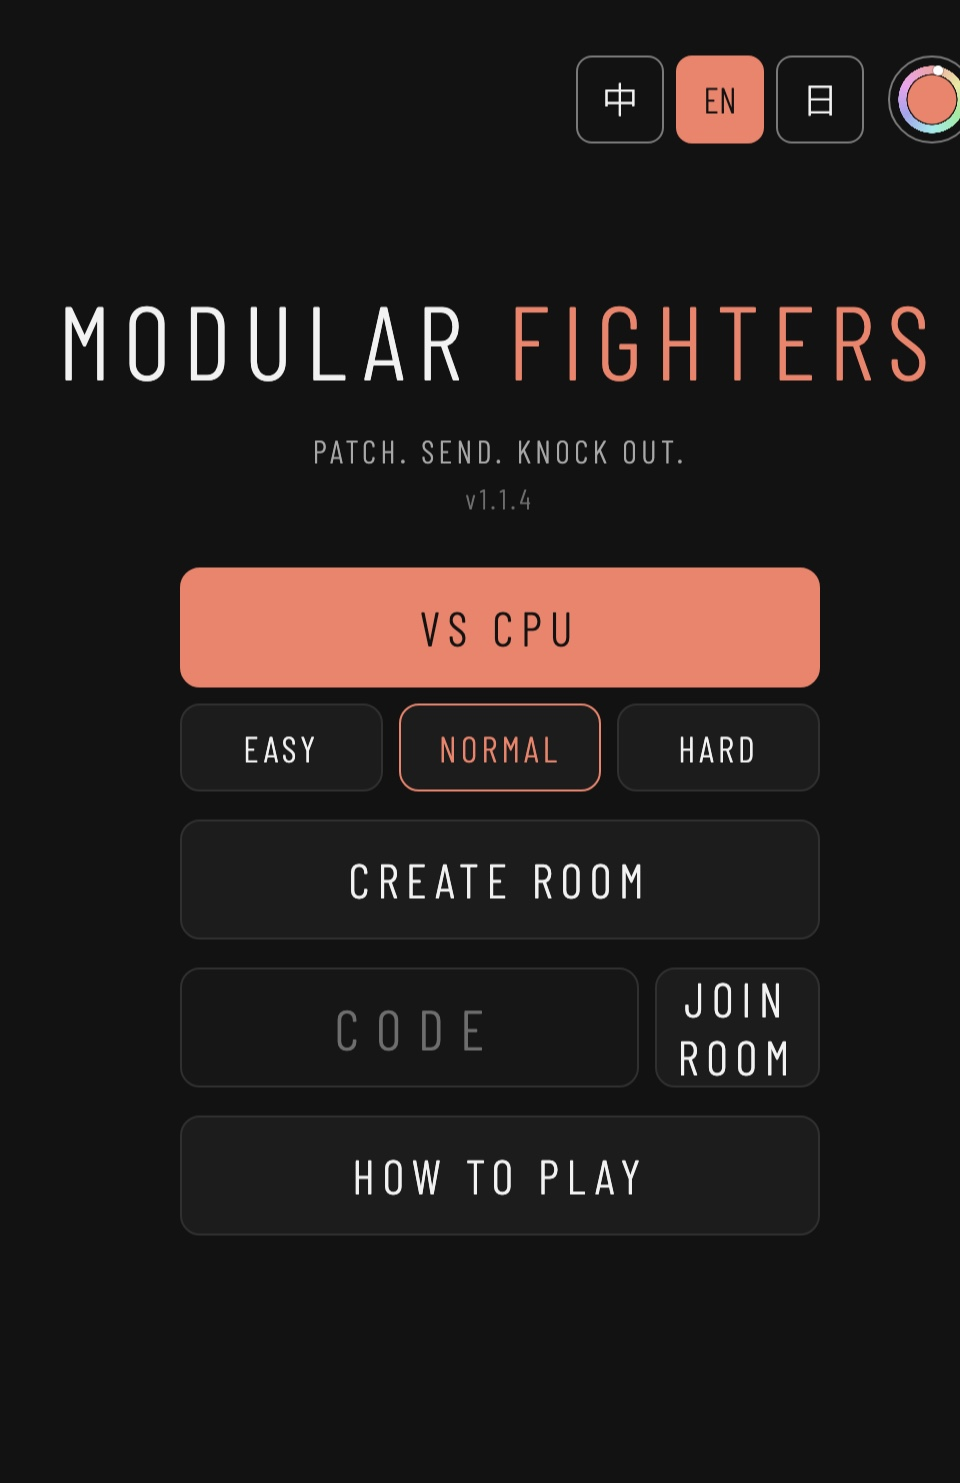
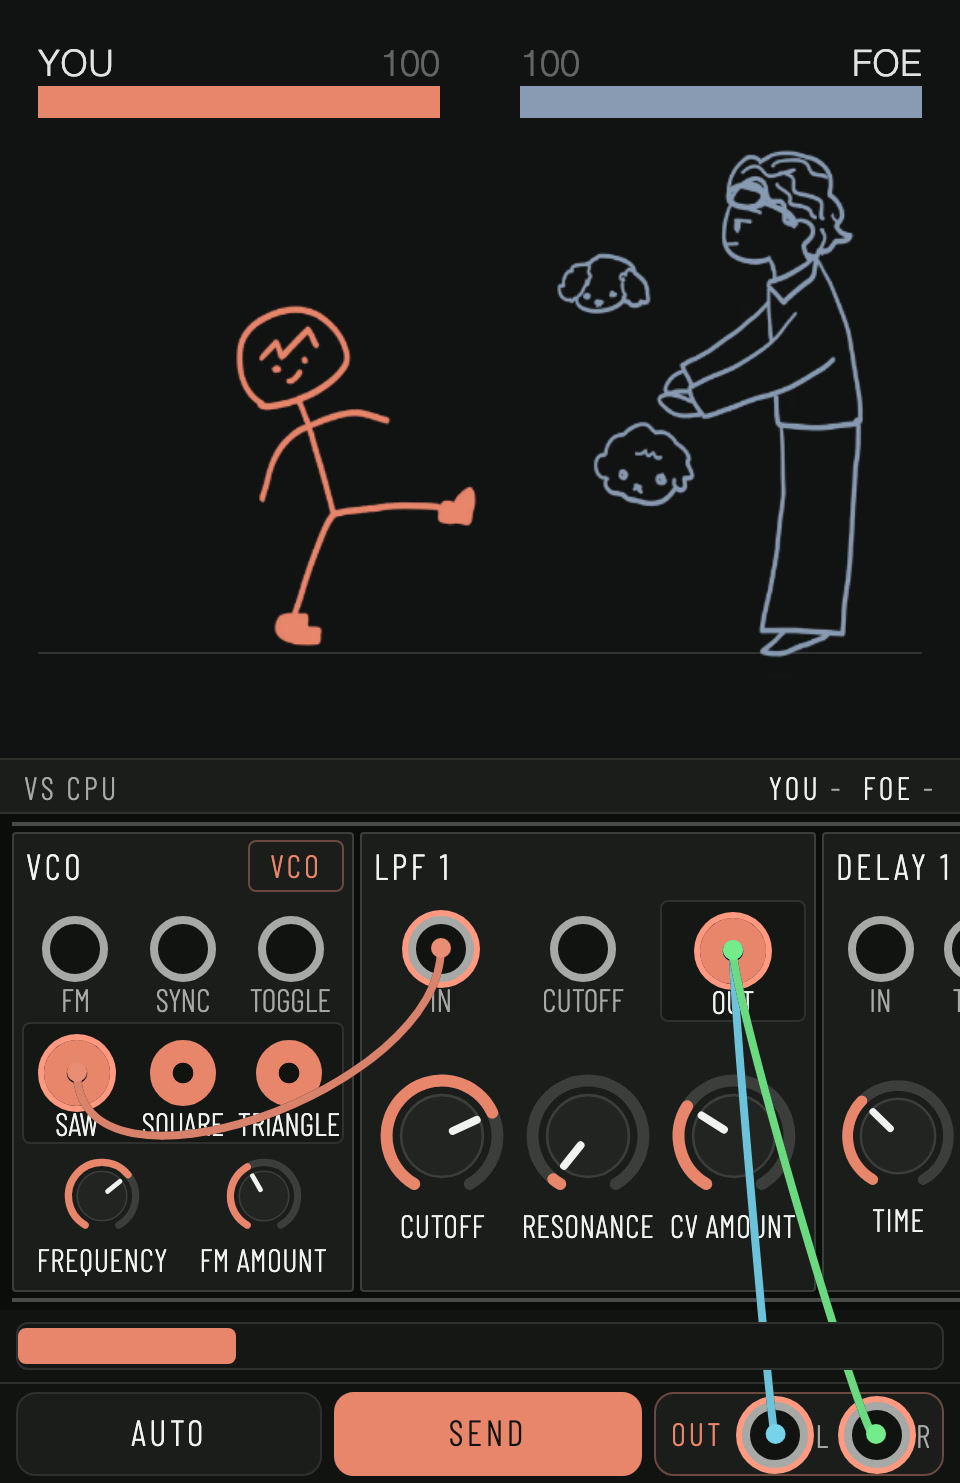
website: Modular Fighters page screenshots (fight, characters, patch, attack)

Changed region(s): [[0.0, 0.031, 1.0, 1.0], [0.0312, 0.031, 0.4688, 0.0931], [0.25, 0.3102, 0.2812, 0.3412]]

diff --git a/modularfighters.html b/modularfighters.html
@@ -231,6 +231,21 @@
                    alt="Modular Fighters"
                    data-full="assets/images/software/Modular_Fighters_1.jpg"
                    onclick="switchImage(this)">
+              <img class="thumb-strip__item"
+                   src="assets/images/software/Modular_Fighters_2.jpg"
+                   alt="Modular Fighters"
+                   data-full="assets/images/software/Modular_Fighters_2.jpg"
+                   onclick="switchImage(this)">
+              <img class="thumb-strip__item"
+                   src="assets/images/software/Modular_Fighters_3.jpg"
+                   alt="Modular Fighters"
+                   data-full="assets/images/software/Modular_Fighters_3.jpg"
+                   onclick="switchImage(this)">
+              <img class="thumb-strip__item"
+                   src="assets/images/software/Modular_Fighters_4.jpg"
+                   alt="Modular Fighters"
+                   data-full="assets/images/software/Modular_Fighters_4.jpg"
+                   onclick="switchImage(this)">
             </div>
 
             <div>
